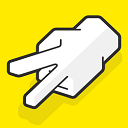
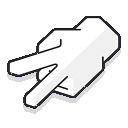
1.1 style

diff --git a/css/style.css b/css/style.css
@@ -59,17 +59,20 @@ td:nth-child(3){
 
 
 #pfc{
+    letter-spacing: 1.5px;
     position: relative;
     margin:100px auto;
     width:50%;
     height:300px;
-    background:rgb(255, 235, 0);
+    background:rgb(22, 84, 155);
+    font-family: 'Oswald', sans-serif;
+    font-size: 1.1em;
 }
 
 #pfc img{
     position:absolute;
     display:none;
-    top:27.5%;
+    top:45%;
 }
 
 #pfc img:nth-of-type(1){
@@ -90,6 +93,7 @@ td:nth-child(3){
 
 
 #pfc h2{
+    color:white;
     position:absolute;
     top:3em;
     text-align: center;
@@ -98,20 +102,23 @@ td:nth-child(3){
 
 #pfc button{
     position:absolute;
-    padding:2em 3em;
+    padding:1em 2em;
     border-radius: 10px;
     border: 0;
-    width:20%;
-    align-self: center;
+    width:35%;
+    font-size:1em;
     font-weight: bold;
     z-index:1;
     left:50%;
     transform: translateX(-50%);
     bottom:20%;
+    background: rgb(255, 255, 255);
+    box-shadow: 0 10px 3px 1px rgba(0, 0, 0, 0.1);
 }
 
-#replay{
+#pfc #replay{
     display:none;
+    width:30%;
 }
 
 #pfc #resultat{
@@ -119,5 +126,33 @@ td:nth-child(3){
     top:40%;
     width: 100%;
     text-align: center;
-    color:blue;
+    color:white;
+}
+
+#score{
+    color:white;
+    background:rgb(17, 66, 122);
+    position:absolute;
+    font-size: 2em;
+    top:4%;
+    margin:15px;
+    padding:.2em;
+    display:none;
+    border-radius: 6px;
+    box-shadow: 0px 10px 3px 1px rgba(0, 0, 0, 0.1);
+    z-index:1;
+}
+#score_ia{
+    color:white;
+    background:rgb(17, 66, 122);
+    position:absolute;
+    top:4%;
+    right:0;
+    font-size: 2em;
+    margin:15px;
+    padding:.2em;
+    display:none;
+    border-radius: 6px;
+    box-shadow: 0px 10px 3px 1px rgba(0, 0, 0, 0.1);
+    z-index:1;
 }

diff --git a/index.html b/index.html
@@ -6,6 +6,7 @@
   <meta charset="UTF-8">
   <meta name="viewport" content="width=device-width, initial-scale=1.0">
   <meta http-equiv="X-UA-Compatible" content="ie=edge">
+  <link href="https://fonts.googleapis.com/css?family=Oswald" rel="stylesheet">
   <title>Document</title>
 </head>
 
@@ -23,7 +24,7 @@
       <div id="score"></div>
       <div id="score_ia"></div>
       <h2>Jouer contre l'IA à pierre feuille ciseaux ?</h2><br>
-      <button onclick=start_pfc()>start</button>
+      <button onclick=start_pfc()>Commencer</button>
       <img id="img1" src="img/ciseaux_ia.png" onclick='check(1);'>
       <img id="img2" src="img/feuille_ia.png" onclick='check(2);'>
       <img id="img3" src="img/pierre_ia.png" onclick='check(3);'>
@@ -99,6 +100,8 @@
         function start_pfc(){
           pfc.getElementsByTagName('h2')[0].style.display = 'none';
           pfc.getElementsByTagName('button')[0].style.display = 'none';
+          document.getElementById('score').style.display = 'block';
+          document.getElementById('score_ia').style.display = 'block';
           start_game();
         }
         function start_game(){
